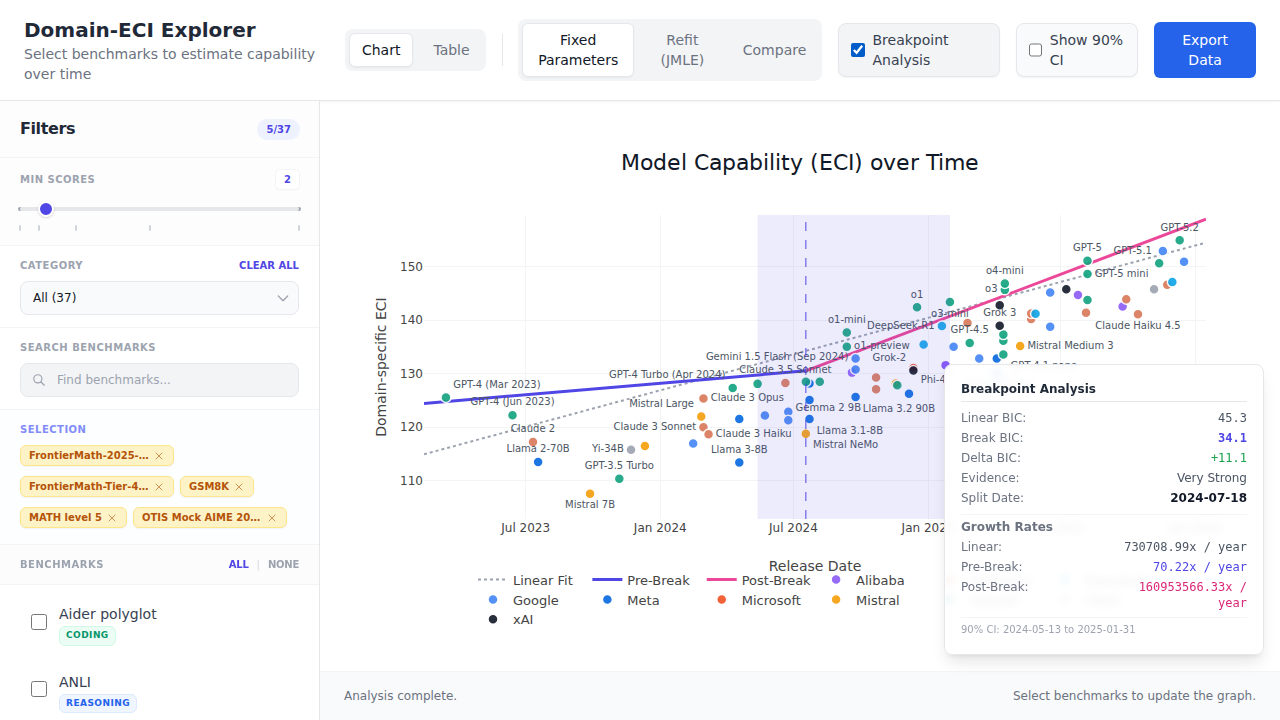
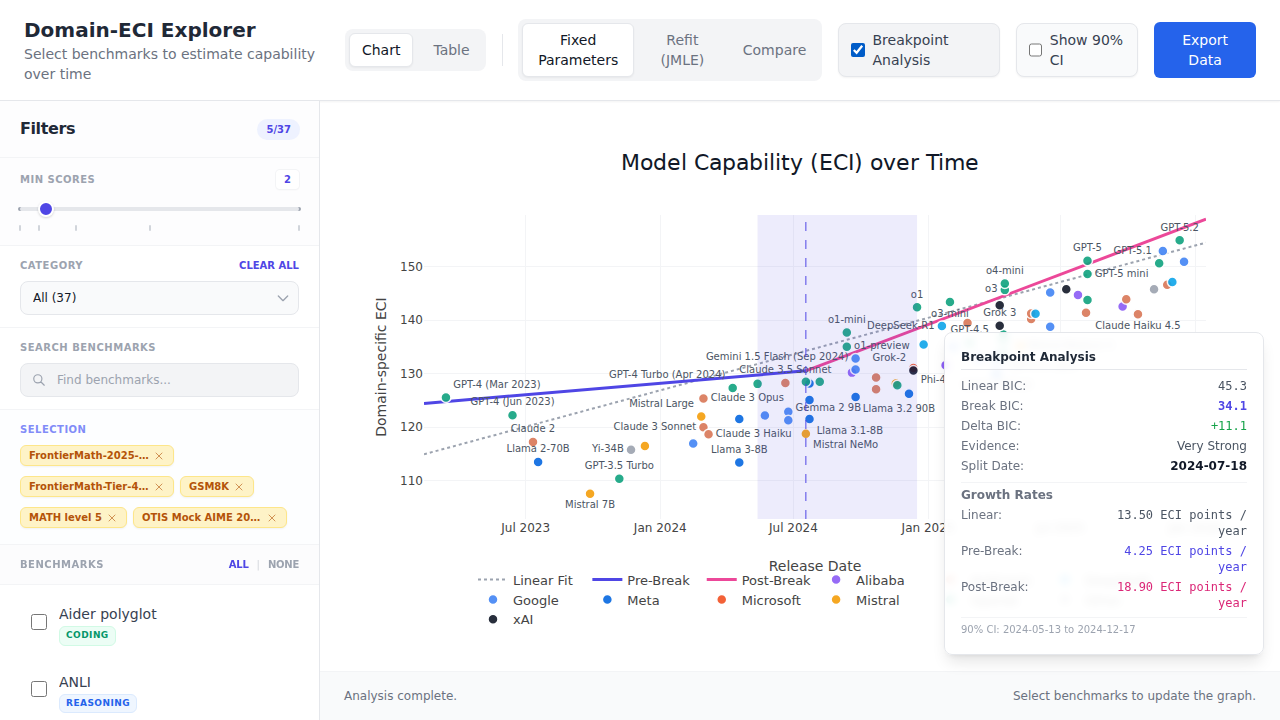
Deploy preview for PR 18 🛫

Changed region(s): [[0.75, 0.4583, 0.875, 0.7944], [0.875, 0.55, 0.9688, 0.825]]

diff --git a/pr-preview/pr-18/domain_eci.html b/pr-preview/pr-18/domain_eci.html
@@ -1620,7 +1620,8 @@
 
                             // Growth Factors
                             const msPerYear = 1000 * 60 * 60 * 24 * 365.25;
-                            const calcGrowth = (slope) => Math.exp(slope * msPerYear).toFixed(2) + "x / year";
+                            // Additive growth: slope (points/ms) * msPerYear = points/year
+                            const calcGrowth = (slope) => (slope * msPerYear).toFixed(2) + " ECI points / year";
 
                             const linearGrowth = calcGrowth(lin.slope);
 
@@ -1662,11 +1663,30 @@
                                 ${ciText ? `<div class="mt-1 pt-1 border-t border-gray-100 text-gray-400 text-[10px]">${ciText}</div>` : ''}
                             `;
 
+                            // Helper to generate dense points for hover
+                            const generateLinePoints = (startT, endT, slope, intercept) => {
+                                const pointsX = [];
+                                const pointsY = [];
+                                const step = 1000 * 60 * 60 * 24 * 15; // 15 days
+                                for (let t = startT; t <= endT; t += step) {
+                                    pointsX.push(new Date(t).toISOString());
+                                    pointsY.push(slope * t + intercept);
+                                }
+                                // Ensure end point is included
+                                if (pointsX[pointsX.length-1] !== new Date(endT).toISOString()) {
+                                    pointsX.push(new Date(endT).toISOString());
+                                    pointsY.push(slope * endT + intercept);
+                                }
+                                return { x: pointsX, y: pointsY };
+                            };
+
                             const xMin = xRange[0], xMax = xRange[1];
+
                             // 1. Linear Fit
+                            const linPts = generateLinePoints(xMin, xMax, lin.slope, lin.intercept);
                             plotData.push({
-                                x: [new Date(xMin).toISOString(), new Date(xMax).toISOString()],
-                                y: [lin.slope * xMin + lin.intercept, lin.slope * xMax + lin.intercept],
+                                x: linPts.x,
+                                y: linPts.y,
                                 mode: 'lines', type: 'scatter', name: 'Linear Fit',
                                 line: { dash: 'dot', color: '#9ca3af', width: 2 },
                                 hovertemplate: `<b>Linear Trend</b><br>Growth: ${linearGrowth}<extra></extra>`
@@ -1674,18 +1694,21 @@
 
                             // 2. Constrained Breakpoint Fit
                             if (bicBp < bicLin && constrainedBp) {
-                                const ySplit = constrainedBp.intercept1 + constrainedBp.slope1 * splitX;
+                                const splitX = ci ? ci.median : bp.splitX;
 
+                                const prePts = generateLinePoints(xMin, splitX, constrainedBp.slope1, constrainedBp.intercept1);
                                 plotData.push({
-                                    x: [new Date(xMin).toISOString(), new Date(splitX).toISOString()],
-                                    y: [constrainedBp.intercept1 + constrainedBp.slope1 * xMin, ySplit],
+                                    x: prePts.x,
+                                    y: prePts.y,
                                     mode: 'lines', type: 'scatter', name: 'Pre-Break',
                                     line: { color: '#4f46e5', width: 3 },
                                     hovertemplate: `<b>Pre-Break Trend</b><br>Growth: ${preGrowth}<extra></extra>`
                                 });
+
+                                const postPts = generateLinePoints(splitX, xMax, constrainedBp.slope2, constrainedBp.intercept2);
                                 plotData.push({
-                                    x: [new Date(splitX).toISOString(), new Date(xMax).toISOString()],
-                                    y: [ySplit, constrainedBp.intercept2 + constrainedBp.slope2 * xMax],
+                                    x: postPts.x,
+                                    y: postPts.y,
                                     mode: 'lines', type: 'scatter', name: 'Post-Break',
                                     line: { color: '#ec4899', width: 3 },
                                     hovertemplate: `<b>Post-Break Trend</b><br>Growth: ${postGrowth}<extra></extra>`

diff --git a/pr-preview/pr-18/verification/verify_domain_eci_additive.py b/pr-preview/pr-18/verification/verify_domain_eci_additive.py
@@ -1,0 +1,49 @@
+from playwright.sync_api import sync_playwright
+
+def verify_domain_eci_additive():
+    with sync_playwright() as p:
+        browser = p.chromium.launch()
+        page = browser.new_page()
+
+        page.goto("file:///app/domain_eci.html")
+        page.wait_for_selector("#chart-container")
+        page.check("#show-breakpoint-toggle")
+        page.wait_for_timeout(3000)
+
+        # Check Stats Content
+        content = page.locator("#breakpoint-content").inner_text()
+        print(f"Stats Content:\n{content}")
+
+        if "ECI points / year" in content:
+            print("PASSED: Found 'ECI points / year' in stats.")
+        else:
+            print("FAILED: Did not find 'ECI points / year' in stats.")
+
+        # Check Hover Template
+        plot_data_check = page.evaluate("""() => {
+            const gd = document.getElementById('chart-container');
+            if (!gd.data) return "No Data";
+            const traces = gd.data.filter(d => d.name === 'Linear Fit' || d.name === 'Pre-Break');
+            // Return first 5 x points of Linear Fit to verify density
+            return {
+                templates: traces.map(t => t.hovertemplate),
+                linearPoints: traces.find(d => d.name === 'Linear Fit').x.length
+            };
+        }""")
+
+        print(f"Plot Data Check: {plot_data_check}")
+
+        if any("ECI points / year" in str(t) for t in plot_data_check['templates']):
+             print("PASSED: Hover templates correct.")
+        else:
+             print("FAILED: Hover templates incorrect.")
+
+        if plot_data_check['linearPoints'] > 2:
+            print(f"PASSED: Linear fit has {plot_data_check['linearPoints']} points (dense).")
+        else:
+            print(f"FAILED: Linear fit has {plot_data_check['linearPoints']} points (sparse).")
+
+        browser.close()
+
+if __name__ == "__main__":
+    verify_domain_eci_additive()
